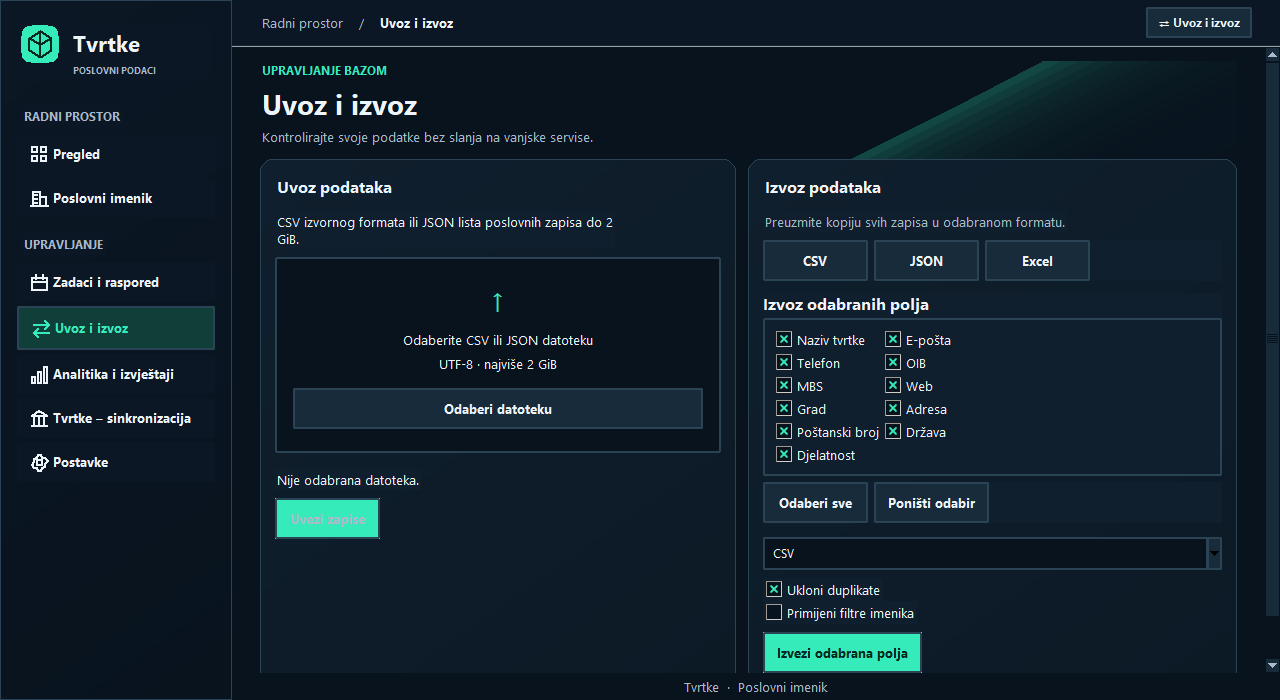
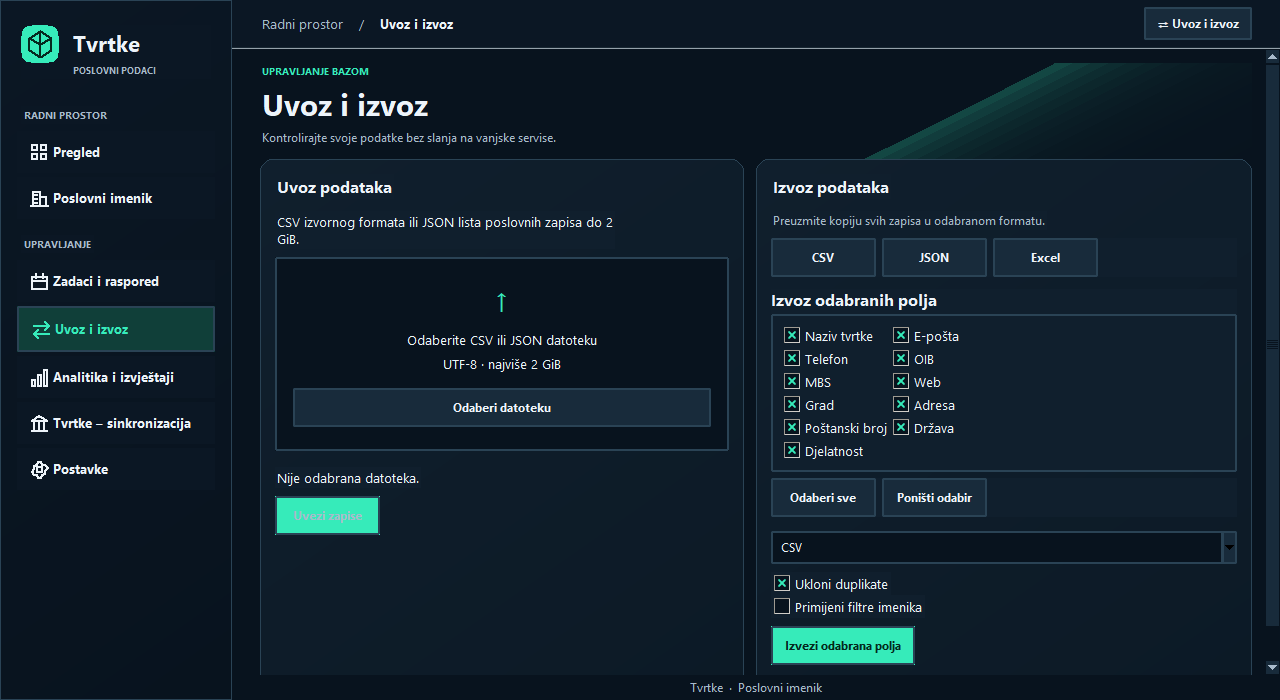
Refine native viewport geometry and shared typography

diff --git a/src/native_desktop.py b/src/native_desktop.py
@@ -77,7 +77,7 @@ class Desktop(SecondaryPages):
         self.nav_icons={}
         self.nav_labels=[]
         def nav_label(label):
-            widget=tk.Label(sidebar,text=label,bg=SIDE,fg=MUTED,font=("Segoe UI",9,"bold"))
+            widget=tk.Label(sidebar,text=label,bg=SIDE,fg=MUTED,font=("Segoe UI",-10,"bold"))
             widget.pack(anchor="w",padx=20,pady=(14,5))
             self.nav_labels.append(widget)
         def nav(key,label,command,parent=sidebar):
@@ -118,7 +118,7 @@ class Desktop(SecondaryPages):
         self.hscroll.grid(row=1,column=0,sticky="ew")
         self.vscroll.grid_remove()
         self.hscroll.grid_remove()
-        self.scroll_state=(False,False)
+        self.scroll_state=(False,False,False)
         content=ttk.Frame(self.viewport,padding=(28,14,28,12))
         self.content=content
         self.content_window=self.viewport.create_window(0,0,anchor="nw",window=content)
@@ -164,7 +164,7 @@ class Desktop(SecondaryPages):
                 for label in self.nav_labels:label.pack_configure(pady=(5,2) if short else (14,5))
                 for button in self.nav.values():button.pack_configure(pady=0 if short else 2)
                 style=ttk.Style(self.root)
-                for name in ("Nav.TButton","Active.Nav.TButton"):style.configure(name,padding=(7,3) if short else (11,9))
+                for name in ("Nav.TButton","Active.Nav.TButton"):style.configure(name,padding=(7,3) if short else (11,10))
             self.reflow_layout()
             self.resize_content()
 
@@ -215,17 +215,24 @@ class Desktop(SecondaryPages):
         req_w,req_h=self.content.winfo_reqwidth(),self.content.winfo_reqheight()
         vsize=self.vscroll.winfo_reqwidth()
         hsize=self.hscroll.winfo_reqheight()
+        overlay=self.root.winfo_width()>=1100
         horizontal=req_w>width
         vertical=req_h>height-(hsize if horizontal else 0)
-        horizontal=req_w>width-(vsize if vertical else 0)
+        if not overlay:horizontal=req_w>width-(vsize if vertical else 0)
         vertical=req_h>height-(hsize if horizontal else 0)
-        state=(horizontal,vertical)
+        state=(horizontal,vertical,overlay)
         if state!=self.scroll_state:
             self.scroll_state=state
-            for scrollbar,needed in ((self.hscroll,horizontal),(self.vscroll,vertical)):
-                if needed:scrollbar.grid()
-                else:scrollbar.grid_remove()
-        width-=vsize if vertical else 0
+            self.vscroll.place_forget()
+            self.hscroll.grid_remove()
+            self.vscroll.grid_remove()
+            if horizontal:self.hscroll.grid()
+            if vertical:
+                if overlay:
+                    self.vscroll.place(relx=1,x=-vsize,y=0,width=vsize,relheight=1,height=-hsize if horizontal else 0)
+                    self.vscroll.lift()
+                else:self.vscroll.grid()
+        if vertical and not overlay:width-=vsize
         height-=hsize if horizontal else 0
         target=(max(width,req_w),max(height,req_h))
         if getattr(self,"content_size",None)!=target:
@@ -376,7 +383,7 @@ class Desktop(SecondaryPages):
     def build_overview(self):
         view=self.views["overview"]
         heading=ttk.Frame(view)
-        heading.pack(fill="x",pady=(0,12))
+        heading.pack(fill="x",pady=(0,6))
         copy=ttk.Frame(heading)
         copy.pack(side="left",fill="x",expand=True)
         ttk.Label(copy,text="WEB POSLOVNI PODACI",style="Kicker.TLabel").pack(anchor="w")
@@ -388,8 +395,8 @@ class Desktop(SecondaryPages):
         self.metric_values={}
         for column,(key,label) in enumerate((("total","Tvrtke u bazi"),("cities","Gradovi"),("phones","S telefonom"),("websites","S web stranicom"))):
             metrics.columnconfigure(column,weight=1,uniform="metric")
-            panel=Card(metrics,padding=15)
-            panel.grid(row=0,column=column,sticky="nsew",padx=(0,10 if column<3 else 0))
+            panel=Card(metrics,padding=(15,12))
+            panel.grid(row=0,column=column,sticky="nsew",padx=(0,12 if column<3 else 0))
             row=ttk.Frame(panel,style="PanelInner.TFrame")
             row.pack(fill="x")
             icon=nav_icon(self.root,{"total":"directory","cities":"registry","phones":"data","websites":"analytics"}[key],ACCENT)
@@ -401,17 +408,17 @@ class Desktop(SecondaryPages):
         self.register_grid(metrics,4)
         charts=ttk.Frame(view)
         charts.pack(fill="x",pady=(0,12))
-        charts.columnconfigure(0,weight=6)
-        charts.columnconfigure(1,weight=5)
+        charts.columnconfigure(0,weight=112,uniform="overview")
+        charts.columnconfigure(1,weight=100,uniform="overview")
         city=Card(charts,padding=15)
-        city.grid(row=0,column=0,sticky="nsew",padx=(0,12))
-        ttk.Label(city,text="Najzastupljeniji gradovi",style="Panel.TLabel",font=("Segoe UI",13,"bold")).pack(anchor="w")
+        city.grid(row=0,column=0,sticky="nsew",padx=(0,14))
+        ttk.Label(city,text="Najzastupljeniji gradovi",style="PanelTitle.TLabel").pack(anchor="w")
         ttk.Label(city,text="Broj tvrtki po gradu",style="PanelMuted.TLabel").pack(anchor="w",pady=(2,0))
         self.city_chart=tk.Canvas(city,width=220,height=165,bg=PANEL,highlightthickness=0)
         self.city_chart.pack(fill="x",expand=True,pady=(8,0))
         coverage=Card(charts,padding=15)
         coverage.grid(row=0,column=1,sticky="nsew")
-        ttk.Label(coverage,text="Dostupnost podataka",style="Panel.TLabel",font=("Segoe UI",13,"bold")).pack(anchor="w")
+        ttk.Label(coverage,text="Dostupnost podataka",style="PanelTitle.TLabel").pack(anchor="w")
         ttk.Label(coverage,text="Kontaktni podaci u imeniku",style="PanelMuted.TLabel").pack(anchor="w",pady=(2,0))
         self.coverage_chart=tk.Canvas(coverage,width=200,height=130,bg=PANEL,highlightthickness=0)
         self.coverage_chart.pack(fill="x",expand=True,pady=(8,0))
@@ -424,7 +431,7 @@ class Desktop(SecondaryPages):
         recent.pack(fill="both",expand=True)
         top=ttk.Frame(recent,style="PanelInner.TFrame")
         top.pack(fill="x")
-        ttk.Label(top,text="Nedavni zapisi",style="Panel.TLabel",font=("Segoe UI",13,"bold")).pack(side="left")
+        ttk.Label(top,text="Nedavni zapisi",style="PanelTitle.TLabel").pack(side="left")
         ttk.Button(top,text="Otvori imenik",command=lambda:self.show_view("directory")).pack(side="right")
         ttk.Label(recent,text="Brz pristup zapisima iz baze",style="PanelMuted.TLabel").pack(anchor="w",pady=(2,0))
         self.recent=ttk.Treeview(recent,columns=("name","city","phone","web","source","action"),show="headings",height=5,style="Recent.Treeview")
@@ -488,7 +495,7 @@ class Desktop(SecondaryPages):
         cities=stats["top_cities"]
         largest=max(1,max((row["n"] for row in cities),default=1))
         for index,row in enumerate(cities[:6]):
-            y=8+30*index
+            y=8+28*index
             self.city_chart.create_text(0,y,anchor="w",text=row["city"][:18],fill=TEXT)
             self.chart_bar(self.city_chart,y+12,width,row["n"]/largest)
             self.city_chart.create_text(width-2,y,anchor="e",text=f"{row['n']:,}".replace(",","."),fill=MUTED)

diff --git a/src/native_theme.py b/src/native_theme.py
@@ -47,7 +47,7 @@ def install(root):
     for name,fill,fg in (("TButton",PANEL2,TEXT),("Accent.TButton",ACCENT,INK),
                          ("Nav.TButton",SIDE,TEXT),("Active.Nav.TButton",ACTIVE,ACCENT)):
         style.configure(name,background=fill,foreground=fg,padding=(11,9),
-                        anchor="w" if "Nav" in name else "center",font=("Segoe UI",10,"bold"),borderwidth=1)
+                        anchor="w" if "Nav" in name else "center",font=("Segoe UI",-13 if "Nav" in name else -12,"bold"),borderwidth=1)
         style.map(name,foreground=[("disabled",MUTED),("active",fg)],background=[("active",fill)])
     style.configure("Upload.TFrame",background=BG,borderwidth=1,relief="solid")
     style.configure("Upload.TLabel",background=BG,foreground=TEXT)
@@ -55,7 +55,7 @@ def install(root):
     style.configure("Header.TFrame",background=SIDE)
     style.configure("Header.TLabel",background=SIDE,foreground=MUTED)
     style.configure("HeaderTitle.TLabel",background=SIDE,foreground=TEXT,font=("Segoe UI",10,"bold"))
-    style.configure("Small.TButton",padding=(9,5),font=("Segoe UI",9,"bold"))
+    style.configure("Small.TButton",padding=(10,6),font=("Segoe UI",-12,"bold"))
     style.configure("Hint.TLabel",background=PANEL2,foreground=MUTED,padding=8,font=("Segoe UI",9))
     style.configure("Recent.Treeview",rowheight=36)
     style.configure("Card.TFrame",background=BG,borderwidth=0,relief="flat")
@@ -70,13 +70,13 @@ def install(root):
     style.configure("Treeview",font=("Segoe UI",-13))
     style.configure("Panel.TLabel",background=PANEL)
     style.configure("Metric.TLabel",background=PANEL,font=("Segoe UI",-30,"bold"))
-    style.configure("Title.TLabel",font=("Segoe UI",-28,"bold"))
-    style.configure("Kicker.TLabel",foreground=ACCENT,font=("Segoe UI",9,"bold"))
-    style.configure("Muted.TLabel",foreground=MUTED)
+    style.configure("Title.TLabel",font=("Segoe UI",-30,"bold"))
+    style.configure("Kicker.TLabel",foreground=ACCENT,font=("Segoe UI",-10,"bold"))
+    style.configure("Muted.TLabel",foreground=MUTED,font=("Segoe UI",-12))
     style.configure("PanelTitle.TLabel",background=PANEL,font=("Segoe UI",-16,"bold"),padding=0)
-    style.configure("PanelMuted.TLabel",background=PANEL,foreground=MUTED)
+    style.configure("PanelMuted.TLabel",background=PANEL,foreground=MUTED,font=("Segoe UI",-12))
     style.configure("Treeview",background=PANEL,fieldbackground=PANEL,foreground=TEXT,rowheight=43,borderwidth=0)
-    style.configure("Treeview.Heading",background=PANEL2,foreground=MUTED,relief="flat",font=("Segoe UI",9,"bold"),padding=(8,8))
+    style.configure("Treeview.Heading",background=PANEL2,foreground=MUTED,relief="flat",font=("Segoe UI",-10,"bold"),padding=(8,8))
     style.map("Treeview",background=[("selected",ACTIVE)],foreground=[("selected",TEXT)])
     style.configure("TEntry",fieldbackground=BG,padding=(8,8),bordercolor=LINE)
     style.configure("TCombobox",fieldbackground=BG,foreground=TEXT,background=PANEL2,padding=(8,7),arrowsize=14)
@@ -87,7 +87,7 @@ def install(root):
     style.configure("TNotebook",background=BG,borderwidth=0)
     style.configure("TNotebook.Tab",background=PANEL2,foreground=TEXT,padding=(12,8))
     style.map("TNotebook.Tab",background=[("selected",ACTIVE)],foreground=[("selected",ACCENT)])
-    style.configure("Horizontal.TProgressbar",background=ACCENT,troughcolor=PANEL2,bordercolor=PANEL2,lightcolor=ACCENT,darkcolor=ACCENT)
+    style.configure("Horizontal.TProgressbar",background=ACCENT,troughcolor=PANEL2,bordercolor=PANEL2,lightcolor=ACCENT,darkcolor=ACCENT,thickness=8)
 
 def panel(parent,title=None,padding=15):
     box=ttk.Frame(parent,style="Panel.TFrame",padding=padding)
@@ -141,7 +141,7 @@ def decorate(parent,start=PANEL,end="#0c1a26",radius=12,outer=BG,border=LINE):
         dx,dy=math.sin(angle),-math.cos(angle)
         span=max(1,dx*(w-1)+dy*(h-1))
         def projection(point):return (dx*point[0]+dy*point[1])/span
-        bands=24
+        bands=48
         for i in range(bands):
             polygon=clip_band(points,projection,i/bands,True)
             polygon=clip_band(polygon,projection,min(1,(i+1)/bands+.002),False)

diff --git a/docs/visual-acceptance/README.md b/docs/visual-acceptance/README.md
@@ -15,3 +15,7 @@ Keep the reference renderer until native feature parity and visual acceptance ar
 ## Intermediate milestone
 
 Use --max-changed-percent 30 to check that each of the seven pages has at most 30% differing RGB pixels. This is a separate development milestone; the default gate remains zero. The latest candidate still fails both gates. Procedural card surfaces, native charts, filters, task indicators and the original launcher assets are now integrated. Reference PNGs remain unchanged.
+
+## Layout geometry iteration
+
+Wide windows use an overlay vertical scrollbar in the outer margin, retaining the reference content width. Narrow windows retain reserved scrollbar space and the responsive card layout. Dashboard card dimensions, chart proportions and six-row chart spacing were corrected; shared typography and progress-bar thickness now more closely follow reference CSS. The experimental custom ttk image-button renderer was excluded because its initial smoke run did not complete promptly. The measured candidate still fails the 30% gate; data and analytics show small regressions. Real DPI and cross-platform pixel acceptance remain open. No source reference images were changed.
